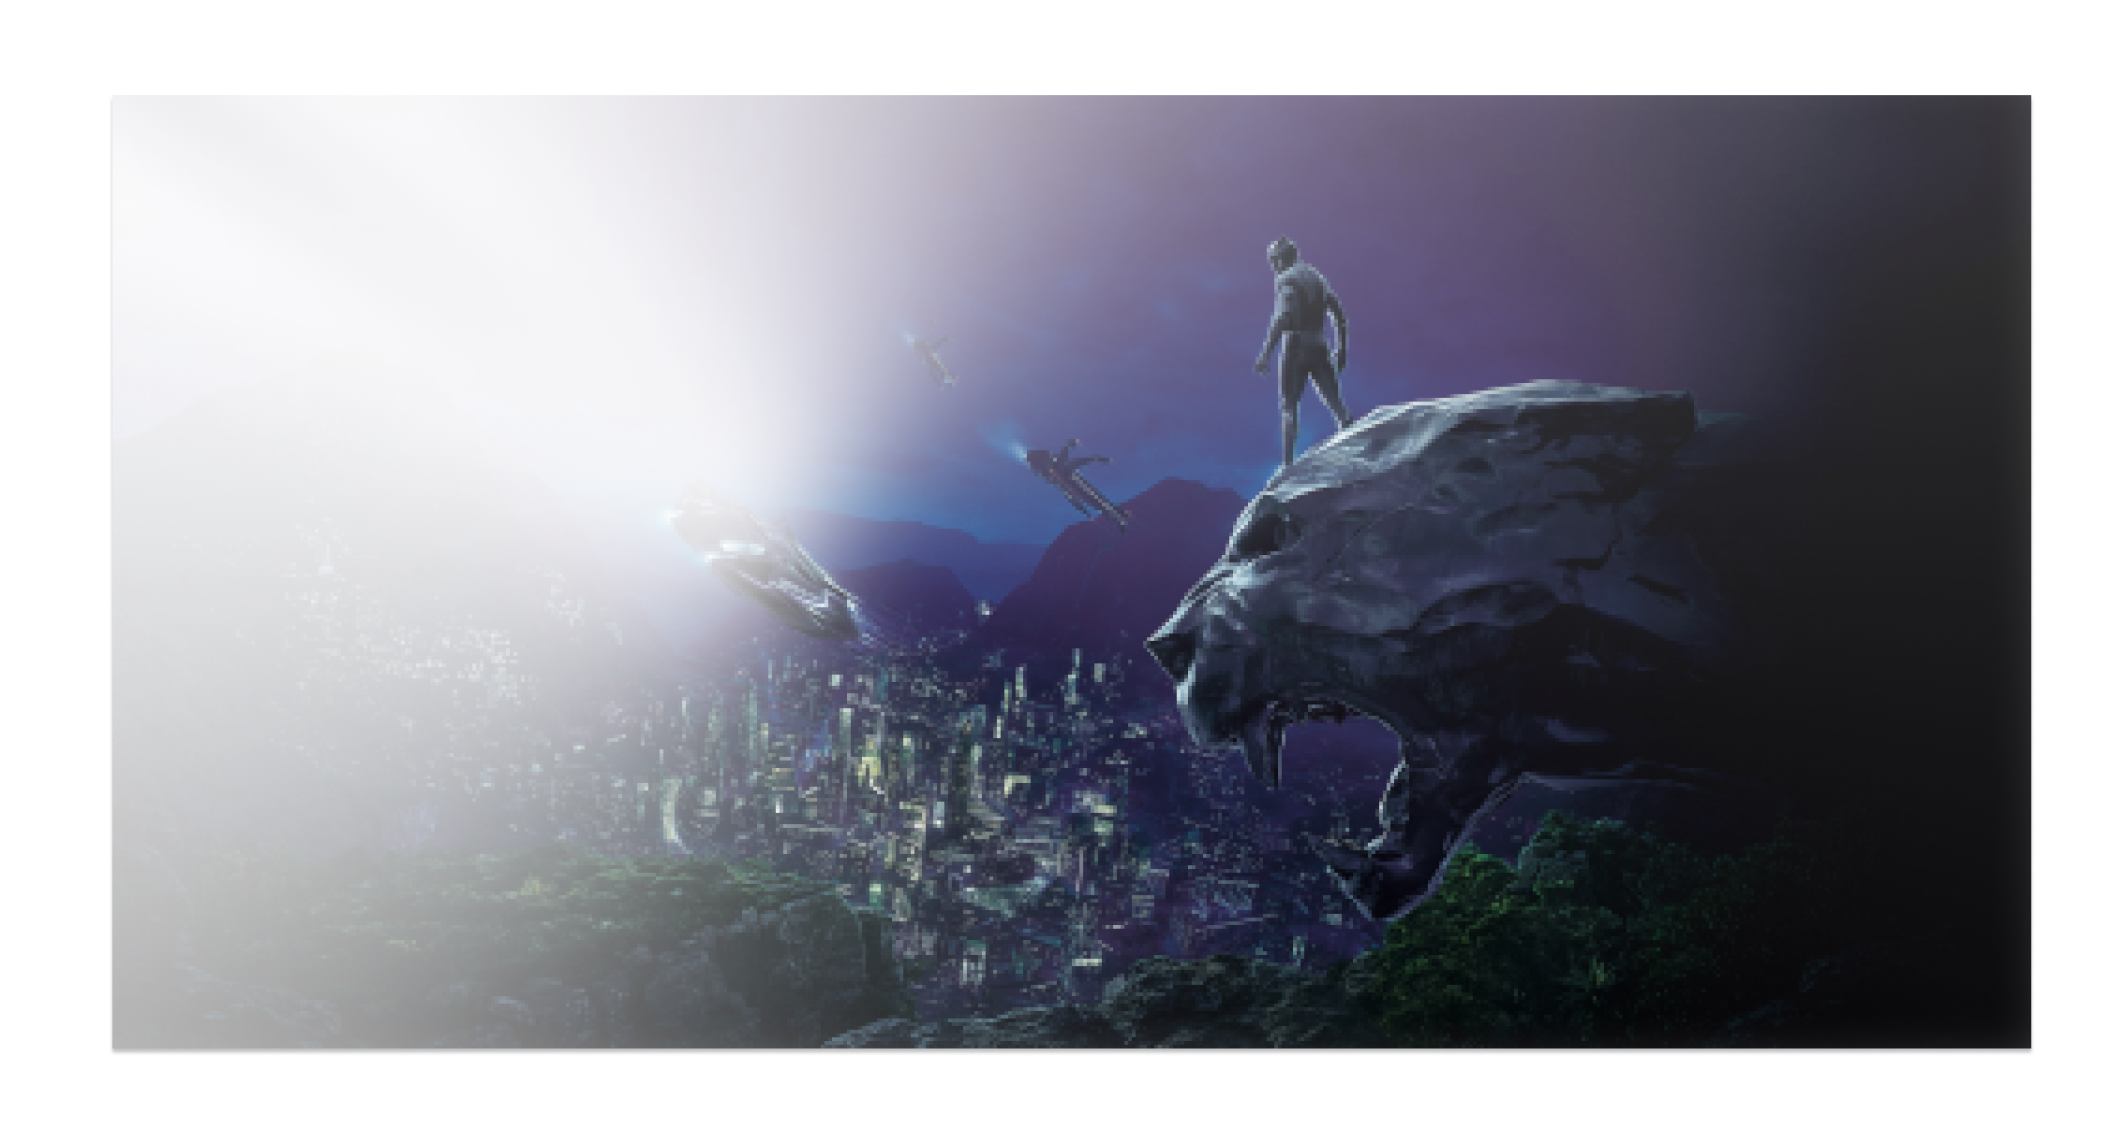
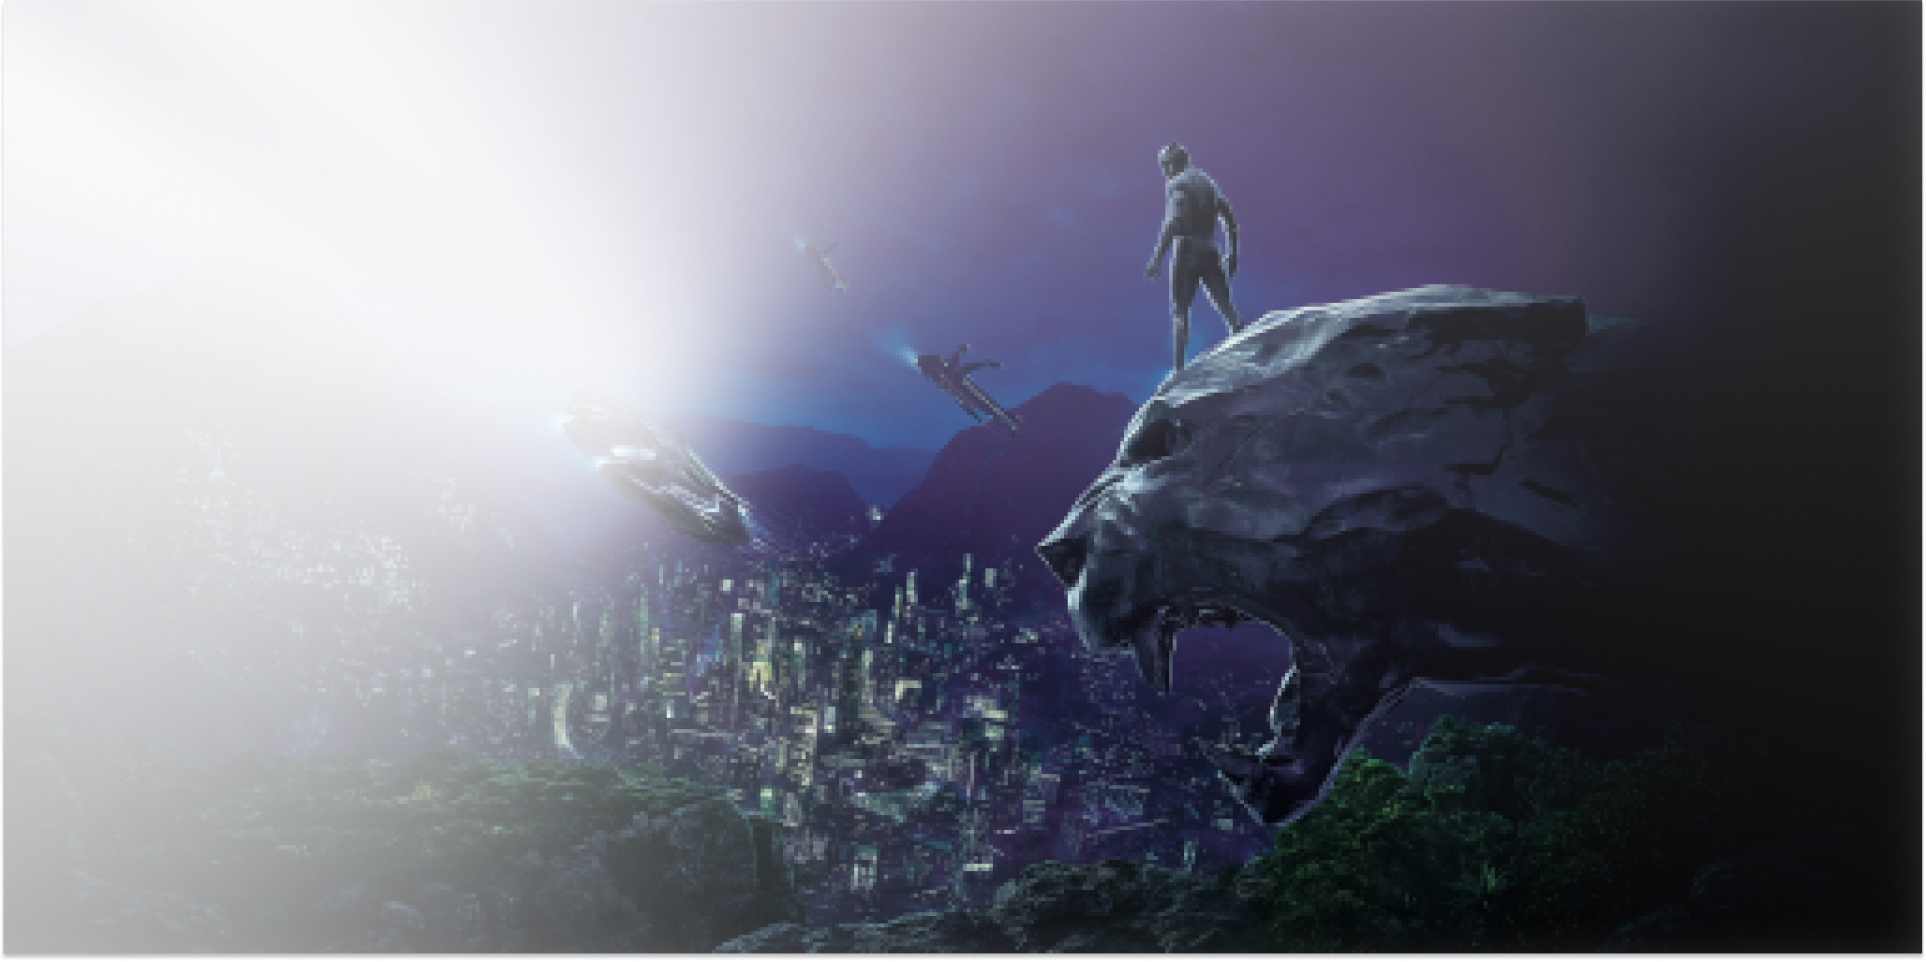
page wakanda

diff --git a/Wakanda.html b/Wakanda.html
@@ -22,6 +22,141 @@
             </nav>
         </div>
     </header>
+    <main>
+        <section class="backgrondSection1">
+            <div class="rangementSection1">
+                <h1>
+                    WAKANDA FOREVER
+                </h1>
+                <h2>
+                    WAKANDA FOREVER
+                </h2>
+                <p>
+                    Situé en Afrique subsaharienne, à l'ouest de l’Éthiopie et au nord du Kenya1, ce petit royaume, longtemps caché aux autres nations du monde, est notamment connu pour posséder un gisement naturel du métal de fiction le vibranium ainsi que pour
+                </p>
+            </div>
+        </section>
+        <section class="backgrondSection2">
+            <div>
+                <h3>
+                    Origines
+                </h3>
+                <p>
+                    Avant l'émergence de la nation wakandaise, la mythologie du pays parle des êtres mystiques connus sous le nom des « Originateurs », expulsés de la région par les Orishas, le panthéon du Wakanda composé des dieux Thot, Ptah, Mujaji, Kokou et Bast la déesse
+                    panthère.
+                </p>
+                <p>
+                    La lignée royale du Wakanda débute avec Bashenga, supposé être le troisième prince du pays et la première Panthère noire (Black Panther), 10 000 ans avant T'Challa.
+                </p>
+                <p>
+                    Dans l'histoire lointaine du royaume, une immense météorite s’écrasa sur le futur Wakanda et provoqua la survenue d'une substance unique, qui deviendra plus tard le vibranium. Les Wakandais apprendront au fur et à mesure à utiliser ce métal pour forger
+                    leurs armes. Mais le vibranium se révélera aussi avoir de fortes propriétés mutagènes qui transformeront certaines hommes en monstres.
+                </p>
+                <p>
+                    Le bouclier de Captain America (ère moderne) est composé en partie de vibranium du Wakanda. Entouré de montagnes, les frontières du Wakanda ont été soigneusement surveillées au cours des deux derniers siècles, et toute tentative d’invasion a été repoussée.
+                    Jusqu’à ces dernières années, le pays était si isolé que la plupart des personnes sur Terre ignoraient son existence.
+                </p>
+                <p>
+                    Lorsque des informations sur la présence de vibranium au Wakanda commencèrent à se répandre durant la Seconde Guerre mondiale, le roi T’Chaka passa un accord avec Captain America (Steve Rogers), lui fournissant un échantillon de vibranium — qui allait
+                    être utilisé peu de temps après par le métallurgiste américain Myron MacLain pour former le bouclier rond du Captain.
+                </p>
+                <div class="video">
+                    <iframe src="https://www.youtube.com/embed/ts30OG3Qld0" title="The Dora Milaje | Warriors (+TF&TWS)" frameborder="0" allow="accelerometer; autoplay; clipboard-write; encrypted-media; gyroscope; picture-in-picture" allowfullscreen>
+                    </iframe>
+                </div>
+                <h3>
+                    UN CINEMA AFRO AMERICAIN QUI RESONNE
+                </h3>
+                <p>
+                    Pour Jamil Smith dans le magazine Time, Black Panther semble capable de prouver à Hollywood que les Afro-Américains peuvent générer des profits grâce à tous les publics, et que ce film est un acte de résistance face au mouvement culturel et politique
+                    régressif alimenté en partie par le mouvement nativiste blanc. Les thèmes abordés par le film remettent en question les préjugés institutionnels, ses personnages s'attaquent aux oppresseurs et son récit inclut des perspectives prismatiques
+                    sur la vie et la tradition des Noirs.
+                </p>
+                <p>
+                    Pour l'historien Nathan D. B. Connolly, Black Panther est « une puissante analogie fictive pour les luttes de la vie réelle » qui exploite une « histoire de 500 ans de personnes d'origine africaine imaginant la liberté, la terre et l'autonomie nationale.
+                    » L'écrivain et activiste Shaun King estime que le film est un moment culturel dans l'histoire des Noirs américains, similaire au boycott des bus de Montgomery, au discours de Martin Luther King Jr. « I Have a Dream » ou à l'élection
+                    de Barack Obama à la présidence.
+                </p>
+                <p>
+                    Pour Dwayne Wong (Omowale) dans HuffPost, le film s'attaque à « de sérieux problèmes politiques concernant les relations de l'Afrique avec l'Occident, qui reçoivent très rarement l'attention sérieuse qu'ils méritent », les Wakandans étant présentés comme
+                    suspects à l'égard des étrangers. Il conclut que si le pays est fictif, la politique « est bien réelle. La fin du colonialisme n'a pas mis fin à la manipulation occidentale dans la politique africaine. »
+                </p>
+                <p>
+                    Carlos Rosario Gonzalez écrit que la lutte entre T'Challa et Killmonger représente le combat de « ce que signifie être Africain » et de « ce que l'Afrique signifie pour les Afro-minorités d'aujourd'hui ». Dans cette perspective, Wakanda représente l'Afrique
+                    sans colonialisme occidental, et Killmonger nous montre que « nous pouvons parfois devenir ce que nous cherchons à détruire », concluant que Killmonger veut utiliser les ressources du Wakanda pour devenir un colonisateur de l'Occident
+                    tandis que « les manières conservatrices du Wakanda ont créé le problème qu'ils cherchaient à détruire : Erik Killmonger ».
+                </p>
+                <p>
+                    Enfin Jelani Cobb, dans The New Yorker, a estimé que T'Challa et Killmonger représentaient « des réponses en duel à cinq siècles d'exploitation africaine aux mains de l'Occident. Le méchant, dans la mesure où le terme s'applique, est l'histoire elle-même
+                    ». Cobb ajoute que Black Panther a une portée politique différente des précédents films MCU dans lesquels « nous étions au moins clairs sur l'endroit où les lignes de la fantaisie se sont éloignées de la réalité [alors que ce film
+                    se déroule] dans une nation inventée en Afrique, un continent qui a été aux prises avec des versions inventées de lui-même depuis que les hommes blancs l'ont déclaré pour la première fois “continent noir” et ont commencé à piller son
+                    peuple et ses ressources.
+                </p>
+            </div>
+            <div>
+                <h3>
+                    Le culte de la panthere noire
+                </h3>
+                <p>
+                    Bast, la déesse panthère basée sur Bastet, l'ancienne divinité égyptienne est la principale divinité du Wakanda. Chaque nouvelle Panthère noire doit partir en quête d’une herbe en forme de coeur qui ne pousse que sur le Mont Kanda. Le futur souverain
+                    doit manger cette plante, qui lui apporte des capacités surhumaines et un lien « mystique » avec le Dieu-Panthère.
+                </p>
+                <p>
+                    Par contre, le culte du Gorille — repris par M’Baku, alias l'Homme-singe — est interdit
+                </p>
+                <h3>
+                    Guerre de l’INFINI
+                </h3>
+                <p>
+                    Après l’arrestation et l’emprisonnement du Zemo, T’Challa emmène Steve Rogers et Barnes au Wakanda, où il promet d’essayer de guérir le cerveau de Barnes en supprimant le programme implanté par l’HYDRA. Il le plonge dans une phase de cryogénisation jusqu'à
+                    trouver une solution, et finit par réussir avant les évenements de la Guerre de l'Infini.
+                </p>
+                <p>
+                    évenements de la Guerre de l'Infini. Peu après le commencement de l’invasion de la Terre par Thanos, les Avengers rejoignent T'Challa et le Soldat de l'Hiver et chargent Shuri d’extraire la Pierre de l’Esprit de la tête de Vision, blessé. L’armée de Thanos
+                    arrive sur Terre et les Avengers forment une défense avec T’Challa et les soldats Wakandais. Thor arrive sur Terre avec sa nouvelle arme Stormbreaker et ses nouveaux amis Rocket et Groot, et ils rallient les défenses.
+                </p>
+                <p>
+                    « Vous êtes au Wakanda maintenant. Thanos n'aura que la poussière et du sang.
+                    <br> – Bien ... Nous avons du sang à revendre. »
+                    <br> — T'Challa et Proxima Midnight
+                </p>
+                <h3>
+                    Force militaire
+                </h3>
+                <p>
+                    Le Wakanda possède sûrement une des plus puissantes armées au monde, des mesures ayant été prises pour en dissimuler sa véritable puissance militaire, pour ainsi éviter des réactions agressives de la part d'autres nations. Le pays possède des forces spécialisées
+                    comme la Garde de la Panthère (ou la « Meute des Panthères »), l'unité des « Hatut Zeraze » (ou « Chiens de Guerre ») qui formaient la police secrète du pays (« officiellement » dissoute) ou encore les « Dora Milaje », la garde personnelle
+                    du roi.
+                </p>
+                <p>
+                    De nombreux pays et organisations ont toujours eu des vues sur le Wakanda, pour sa principale ressource : le vibranium. Le criminel Ulysses Klaw a ainsi monté de multiples tentatives d’invasion, tout comme l'AIM, les nazis, l’alchimiste Diablo (Esteban
+                    De Ablo), Moïse Magnum, le Maître de l'évolution ou encore la Roxxon Oil Company .
+                </p>
+                <img src="./Illustrations/Wakanda/Pantherwakanda2-1.png" alt="">
+                <h3>
+                    anecdotes :
+                </h3>
+                <p>
+                    Tessa Thompson qui partage l'affiche avec Michael B. Jordan dans les films Creed et Creed 2 a fait remarquer à ce dernier que le costume de Killmonger ressemble étrangement à celui du personnage de Végéta dans l'anime Dragon Ball Z. Michael B. Jordan
+                    s'est rapproché de Ryan Coogler qui est un grand fan de japanimation et qui a confirmé à l'acteur que l'uniforme de Killmonger est bien un clin d'oeil au personnage de Dragon Ball Z.
+                </p>
+                <p>
+                    Chadwick Boseman dans le rôle titre, on retrouve Michael B. Jordan, Lupita Nyong'o, Forest Whitaker, Danai Gurira, Sterling K. Brown ou Daniel Kaluuya. Un casting à 90% noir. On peut compter dans les 10% restants les présences d'Andy Serkis (déjà vu au
+                    Wakanda dans Avengers 2) ou de Martin Freeman, reprenant son rôle d'agent gouvernemental de Civil War.
+                </p>
+                <p>
+                    Dans les flashbacks Denzel Whitaker incarne le jeune Zuri joué par Forest Whitaker plus vieux. Bien qu’il ait le même nom de famille que Forest Whitaker, ils n’ont aucun lien de parenté. Ils ont cependant joué un père et son fils dans The Great Debaters
+                    de Denzel Washington.
+                </p>
+                <p>
+                    Lupita Nyong'o et Winston Duke, qui incarnent les personanges de Nakia and M'Baku, étaient ensemble à l'universite de Yale. Ils ont vu Avengers à sa sortie en 2012, rêvant de participer un jour à la saga superhéroïque. C'est chose faite.
+                </p>
+            </div>
+        </section>
+    </main>
+    <footer>
+
+    </footer>
 
 </body>
 

diff --git a/Css/StyleWakanda.css b/Css/StyleWakanda.css
@@ -51,3 +51,105 @@ nav a {
 nav .active {
     color: #9E91B7;
 }
+
+
+/* style menu */
+
+.backgrondSection1 {
+    background-image: url(../Illustrations/Wakanda/Pantherwakanda1.png);
+    background-size: cover;
+}
+
+.rangementSection1 {
+    display: flex;
+    flex-direction: column;
+    margin-top: 3rem;
+    padding-top: 15rem;
+    padding-left: 10rem;
+    padding-bottom: 20rem;
+}
+
+.rangementSection1 h1 {
+    font-family: 'BEYNO';
+    color: #9E91B7;
+    font-size: 3rem;
+}
+
+.rangementSection1 h2 {
+    font-family: 'Wakanda';
+    color: #9E91B7;
+    font-size: 2rem;
+    margin-top: 0.5rem;
+}
+
+.rangementSection1 p {
+    font-family: 'Cantarell';
+    color: white;
+    font-size: 0.8rem;
+    margin-top: 0.5rem;
+    width: 27%;
+    text-align: justify;
+    margin-top: 3rem;
+}
+
+
+/* style section 2 */
+
+.backgrondSection2 {
+    /* background-image: url(../Illustrations/Wakanda/Pantherwakanda2.png);
+    background-size: 90%;
+    background-position: top center;
+    background-repeat: no-repeat; */
+    display: grid;
+    grid-template-columns: 1fr 1fr;
+    flex-direction: row;
+    gap: 7rem;
+    padding: 10%;
+    font-family: 'Cantarell';
+    font-size: 0.8rem;
+    color: white;
+    text-align: justify;
+    position: relative;
+}
+
+.backgrondSection2>* {
+    position: relative;
+    z-index: 1;
+}
+
+.backgrondSection2::after {
+    content: "";
+    background-image: url(../Illustrations/Wakanda/Pantherwakanda2.png);
+    background-size: 100%;
+    background-position: top center;
+    background-repeat: no-repeat;
+    position: absolute;
+    top: 0;
+    left: 0;
+    height: 100%;
+    width: 100%;
+    z-index: 0;
+    opacity: 0.15;
+}
+
+.backgrondSection2 p {
+    margin-top: 1rem;
+    margin-bottom: 1rem;
+}
+
+.backgrondSection2 h3 {
+    font-family: 'BEYNO';
+    color: #9E91B7;
+    font-size: 1.3rem;
+}
+
+.backgrondSection2 img {
+    width: 100%;
+}
+
+.video iframe {
+    width: 100%;
+    height: auto;
+    margin-top: 3rem;
+    margin-bottom: 2rem;
+}
